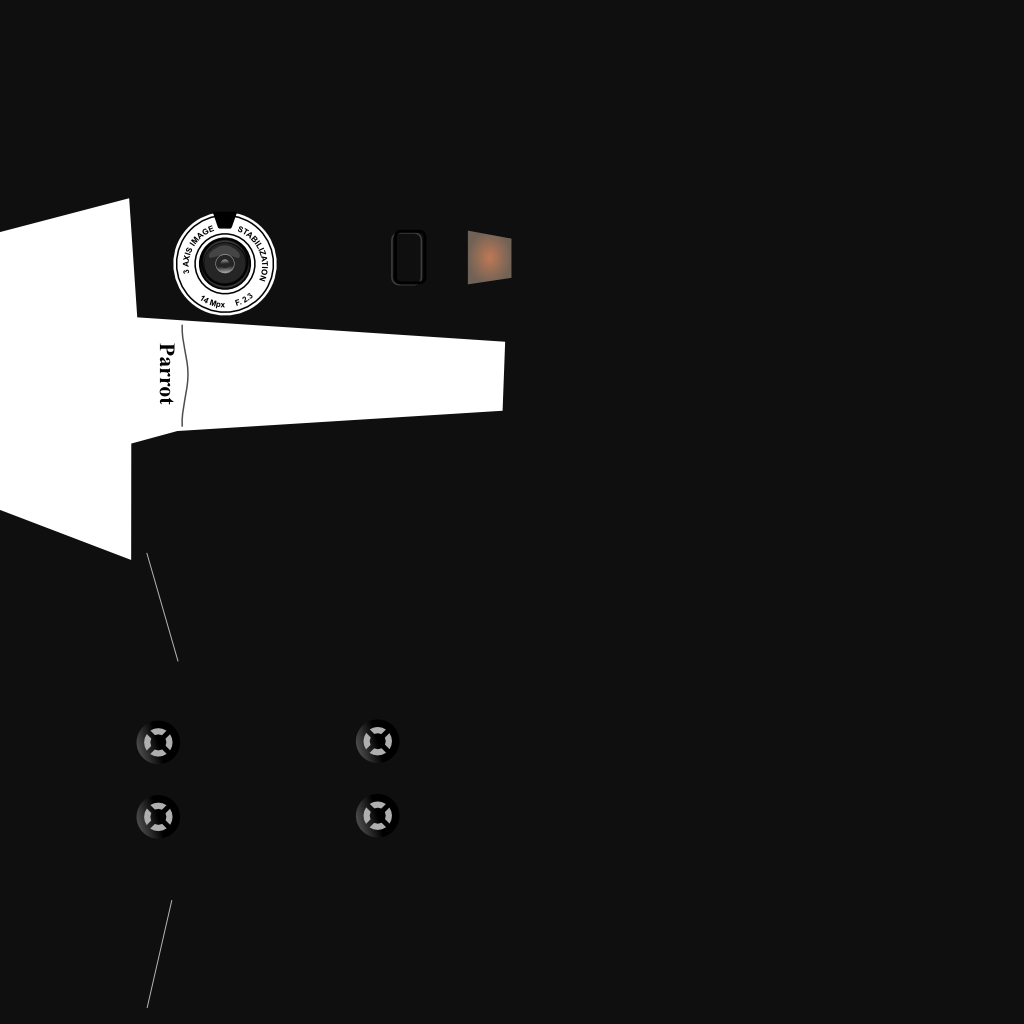
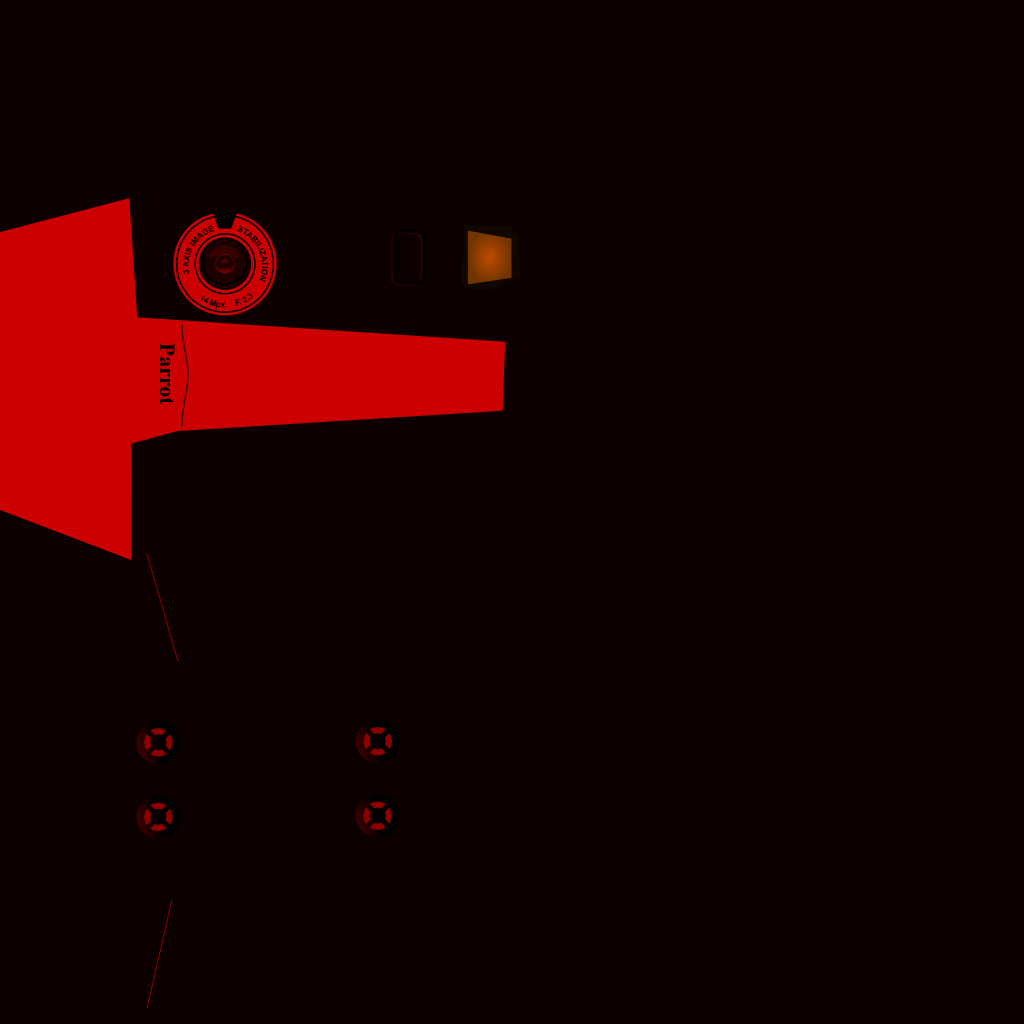
Bebop2の機体色を赤に変更。キャリブレーション画面のモデル表示も変更。Log出力を抑制

diff --git a/app/src/main/java/com/serenegiant/flightdemo/ConfigFragment.java b/app/src/main/java/com/serenegiant/flightdemo/ConfigFragment.java
@@ -42,7 +42,6 @@ public class ConfigFragment extends ControlBaseFragment {
 	// アイコン
 	public static final String KEY_ICON_TYPE = "ICON_TYPE";
 
-
 	public static ConfigFragment newInstance(final ARDiscoveryDeviceService device) {
 		final ConfigFragment fragment = new ConfigFragment();
 		fragment.setDevice(device);
@@ -262,10 +261,10 @@ public class ConfigFragment extends ControlBaseFragment {
 	}
 
 	/**
-	 * ARドローン設定画面の準備
+	 * Bebop設定画面の準備
 	 * @param root
 	 */
-	private void initConfigARdrone1(final View root) {
+	private void initConfigBebop(final View root) {
 		if (DEBUG) Log.v(TAG, "initConfigMinidrone1:");
 		// 自動カットアウトモード
 		CheckBox checkbox = (CheckBox)root.findViewById(R.id.cutout_checkbox);
@@ -962,6 +961,7 @@ public class ConfigFragment extends ControlBaseFragment {
 
 	private static PagerAdapterConfig[] PAGER_CONFIG_MINIDRONE;
 	private static PagerAdapterConfig[] PAGER_CONFIG_BEBOP;
+	private static PagerAdapterConfig[] PAGER_CONFIG_BEBOP2;
 	static {
 		// Minidrone(RollingSpider用)
 		PAGER_CONFIG_MINIDRONE = new PagerAdapterConfig[7];
@@ -1007,13 +1007,13 @@ public class ConfigFragment extends ControlBaseFragment {
 				parent.initConfigInfo(view);
 			}
 		});
-		// ここからbebop用
+// ここからbebop用
 		PAGER_CONFIG_BEBOP = new PagerAdapterConfig[8];
 		PAGER_CONFIG_BEBOP[0] = PAGER_CONFIG_MINIDRONE[0];
 		PAGER_CONFIG_BEBOP[1] = new PagerAdapterConfig(R.string.config_title_drone, R.layout.config_bebop, new AdapterItemHandler() {
 			@Override
 			public void initialize(final ConfigFragment parent, final View view) {
-				parent.initConfigARdrone1(view);
+				parent.initConfigBebop(view);
 			}
 		});
 		PAGER_CONFIG_BEBOP[2] = PAGER_CONFIG_MINIDRONE[2];
@@ -1027,6 +1027,20 @@ public class ConfigFragment extends ControlBaseFragment {
 		});
 		PAGER_CONFIG_BEBOP[6] = PAGER_CONFIG_MINIDRONE[5];
 		PAGER_CONFIG_BEBOP[7] = PAGER_CONFIG_MINIDRONE[6];
+// ここからbebop2用
+		PAGER_CONFIG_BEBOP2 = new PagerAdapterConfig[7];
+		PAGER_CONFIG_BEBOP2[0] = PAGER_CONFIG_MINIDRONE[0];
+		PAGER_CONFIG_BEBOP2[1] = PAGER_CONFIG_MINIDRONE[2];
+		PAGER_CONFIG_BEBOP2[2] = PAGER_CONFIG_MINIDRONE[3];
+		PAGER_CONFIG_BEBOP2[3] = PAGER_CONFIG_MINIDRONE[4];
+		PAGER_CONFIG_BEBOP2[4] = new PagerAdapterConfig(R.string.config_title_network, R.layout.config_network, new AdapterItemHandler() {
+			@Override
+			public void initialize(final ConfigFragment parent, final View view) {
+				parent.initConfigNetwork(view);
+			}
+		});
+		PAGER_CONFIG_BEBOP2[5] = PAGER_CONFIG_MINIDRONE[5];
+		PAGER_CONFIG_BEBOP2[6] = PAGER_CONFIG_MINIDRONE[6];
 	};
 
 	/**
@@ -1043,7 +1057,7 @@ public class ConfigFragment extends ControlBaseFragment {
 				mConfigs = PAGER_CONFIG_BEBOP;
 				break;
 			case ARDISCOVERY_PRODUCT_BEBOP_2:	// Bebop2
-				mConfigs = PAGER_CONFIG_BEBOP;	// とりあえず今は同じ
+				mConfigs = PAGER_CONFIG_BEBOP2;
 				break;
 			case ARDISCOVERY_PRODUCT_MINIDRONE:	// RollingSpider
 			case ARDISCOVERY_PRODUCT_MINIDRONE_EVO_LIGHT:

diff --git a/app/src/main/java/com/serenegiant/flightdemo/PilotFragment.java b/app/src/main/java/com/serenegiant/flightdemo/PilotFragment.java
@@ -43,6 +43,7 @@ import com.serenegiant.arflight.ScriptFlight;
 import com.serenegiant.arflight.TouchFlight;
 import com.serenegiant.arflight.VideoStream;
 import com.serenegiant.dialog.SelectFileDialogFragment;
+import com.serenegiant.gl.IVideoScreen;
 import com.serenegiant.math.Vector;
 import com.serenegiant.utils.FileUtils;
 import com.serenegiant.widget.SideMenuListView;
@@ -800,14 +801,14 @@ public class PilotFragment extends ControlFragment implements SelectFileDialogFr
 					if (mVideoStream == null) return;
 					final IScreen screen = mModelView.getCurrentScreen();
 					if (DEBUG) Log.v(TAG, "startVideoStreaming:screen=" + screen);
-					if (screen instanceof AttitudeScreenBebop) {
+					if (screen instanceof IVideoScreen) {
 						try {
-							final SurfaceTexture surface = ((AttitudeScreenBebop) screen).getVideoTexture();
+							final SurfaceTexture surface = ((IVideoScreen) screen).getVideoTexture();
 							if ((surface != null) && (mSurfaceId == 0)) {
 								final Surface _surface = new Surface(surface);
 								mSurfaceId = _surface.hashCode();
 								mVideoStream.addSurface(mSurfaceId, _surface);
-								((AttitudeScreenBebop) screen).setEnableVideo(true);
+								((IVideoScreen) screen).setEnableVideo(true);
 							}
 						} catch (final Exception e) {
 							Log.w(TAG, e);
@@ -836,8 +837,8 @@ public class PilotFragment extends ControlFragment implements SelectFileDialogFr
 		if (DEBUG) Log.v(TAG, "stopVideoStreaming:");
 		super.stopVideoStreaming();
 		final IScreen screen = mModelView.getCurrentScreen();
-		if (screen instanceof AttitudeScreenBebop) {
-			((AttitudeScreenBebop) screen).setEnableVideo(false);
+		if (screen instanceof IVideoScreen) {
+			((IVideoScreen) screen).setEnableVideo(false);
 		}
 /*		runOnUiThread(new Runnable() {
 			@Override

diff --git a/app/src/main/java/com/serenegiant/flightdemo/CalibrationFragment.java b/app/src/main/java/com/serenegiant/flightdemo/CalibrationFragment.java
@@ -1,7 +1,5 @@
 package com.serenegiant.flightdemo;
 
-import android.app.Activity;
-import android.content.SharedPreferences;
 import android.os.Bundle;
 import android.util.Log;
 import android.view.LayoutInflater;
@@ -9,7 +7,9 @@ import android.view.View;
 import android.view.ViewGroup;
 import android.widget.TextView;
 
+import com.parrot.arsdk.ardiscovery.ARDISCOVERY_PRODUCT_ENUM;
 import com.parrot.arsdk.ardiscovery.ARDiscoveryDeviceService;
+import com.parrot.arsdk.ardiscovery.ARDiscoveryService;
 import com.serenegiant.gl.AttitudeScreenBase;
 import com.serenegiant.gl.IModelView;
 
@@ -56,10 +56,14 @@ public class CalibrationFragment extends ControlBaseFragment {
 	@Override
 	public View onCreateView(final LayoutInflater inflater, final ViewGroup container, final Bundle savedInstanceState) {
 		if (DEBUG) Log.v(TAG, "onCreateView:");
+		final ARDISCOVERY_PRODUCT_ENUM product = getProduct();
 		final LayoutInflater local_inflater = getThemedLayoutInflater(inflater);
 		final View rootView = local_inflater.inflate(R.layout.fragment_calibration, container, false);
 		mModelView = (IModelView)rootView.findViewById(R.id.drone_view);
-		mModelView.setModel(IModelView.MODEL_BEBOP, AttitudeScreenBase.CTRL_CALIBRATION);
+		mModelView.setModel(
+			product == ARDISCOVERY_PRODUCT_ENUM.ARDISCOVERY_PRODUCT_BEBOP_2
+				? IModelView.MODEL_BEBOP2 :	IModelView.MODEL_BEBOP,
+			AttitudeScreenBase.CTRL_CALIBRATION);
 		mMessageTextView = (TextView)rootView.findViewById(R.id.cal_msg_textview);
 		mMessageTextView.setText(R.string.calibration_title);
 

diff --git a/common/src/main/java/com/serenegiant/gl/AttitudeScreenBebop2.java b/common/src/main/java/com/serenegiant/gl/AttitudeScreenBebop2.java
@@ -1,11 +1,13 @@
 package com.serenegiant.gl;
 
 import android.graphics.SurfaceTexture;
+import android.util.Log;
 
 import javax.microedition.khronos.opengles.GL10;
 
-public class AttitudeScreenBebop2 extends AttitudeScreenBase {
-	private static final String TAG = "AttitudeScreenBebop";
+public class AttitudeScreenBebop2 extends AttitudeScreenBase implements IVideoScreen {
+	private static final boolean DEBUG = false;	// FIXME 実働時はfalseにすること
+	private static final String TAG = "AttitudeScreenBebop2";
 
 	private DynamicTexture mVideoFrameTexture;
 
@@ -103,11 +105,16 @@ public class AttitudeScreenBebop2 extends AttitudeScreenBase {
 	}
 
 	private volatile boolean mVideoEnabled;
+
+	@Override
 	public void setEnableVideo(final boolean enable) {
+		if (DEBUG) Log.v(TAG, "setEnableVideo:" + enable);
 		mVideoEnabled = enable;
 	}
 
+	@Override
 	public SurfaceTexture getVideoTexture() {
+		if (DEBUG) Log.v(TAG, "getVideoTexture:" + mVideoFrameTexture);
 		return mVideoFrameTexture != null ? mVideoFrameTexture.getSurfaceTexture() : null;
 	}
 

diff --git a/arflight/src/main/java/com/serenegiant/arflight/FTPController.java b/arflight/src/main/java/com/serenegiant/arflight/FTPController.java
@@ -34,7 +34,7 @@ import java.util.ArrayList;
 import java.util.List;
 
 public abstract class FTPController {
-	private static final boolean DEBUG = true;	// FIXME 実働時はfalseにすること
+	private static final boolean DEBUG = false;	// FIXME 実働時はfalseにすること
 	private static final String TAG = "FTPController:";
 
 	public interface FTPControllerCallback {
@@ -86,9 +86,9 @@ public abstract class FTPController {
 	private FTPControllerCallback mCallback;
 
 	public static FTPController newInstance(final Context context, final IFlightController controller) {
-		if (controller instanceof FlightControllerBebop) {
+		if (controller instanceof IWiFiController) {
 			return new FTPControllerWiFi(context, controller);
-		} else if (controller instanceof FlightControllerMiniDrone) {
+		} else if (controller instanceof IBLEController) {
 			return new FTPControllerBLE(context, controller);
 		}
 		controller.sendVideoRecording(false);

diff --git a/common/src/main/java/com/serenegiant/gl/AttitudeScreenBebop.java b/common/src/main/java/com/serenegiant/gl/AttitudeScreenBebop.java
@@ -4,7 +4,7 @@ import android.graphics.SurfaceTexture;
 
 import javax.microedition.khronos.opengles.GL10;
 
-public class AttitudeScreenBebop extends AttitudeScreenBase {
+public class AttitudeScreenBebop extends AttitudeScreenBase implements IVideoScreen {
 	private static final String TAG = "AttitudeScreenBebop";
 
 	private DynamicTexture mVideoFrameTexture;
@@ -103,10 +103,13 @@ public class AttitudeScreenBebop extends AttitudeScreenBase {
 	}
 
 	private volatile boolean mVideoEnabled;
+
+	@Override
 	public void setEnableVideo(final boolean enable) {
 		mVideoEnabled = enable;
 	}
 
+	@Override
 	public SurfaceTexture getVideoTexture() {
 		return mVideoFrameTexture != null ? mVideoFrameTexture.getSurfaceTexture() : null;
 	}

diff --git a/app/src/main/java/com/serenegiant/flightdemo/MainActivity.java b/app/src/main/java/com/serenegiant/flightdemo/MainActivity.java
@@ -29,7 +29,7 @@ import com.serenegiant.widget.SideMenuFrameLayout;
 public class MainActivity extends Activity /*AppCompatActivity*/ {
 	// ActionBarActivityを継承するとPilotFragmentから戻る際にクラッシュする
 	// Fragmentが切り替わらずに処理中にもかかわらずActivityが破棄されてしまう
-	private static final boolean DEBUG = true;    // FIXME 実働時はfalseにすること
+	private static final boolean DEBUG = false;    // FIXME 実働時はfalseにすること
 	private static String TAG = MainActivity.class.getSimpleName();
 
 	private static boolean isLoaded = false;

diff --git a/arflight/src/main/java/com/serenegiant/arflight/TouchFlight.java b/arflight/src/main/java/com/serenegiant/arflight/TouchFlight.java
@@ -5,8 +5,8 @@ import android.os.HandlerThread;
 import android.util.Log;
 
 public class TouchFlight implements IAutoFlight {
-	private static final boolean DEBUG = true;				// FIXME 実働時はfalseにすること
-	private static final String TAG = "TouchFlight";
+	private static final boolean DEBUG = false;				// FIXME 実働時はfalseにすること
+	private static final String TAG = TouchFlight.class.getSimpleName();
 
 	private static final int VERTIAL_WIDTH = 500;		// 仮想的な操作画面の幅
 	private static final long CMD_DELAY_TIME_MS = 5;	// コマンド遅延時間=5ミリ秒

diff --git a/arflight/src/main/java/com/serenegiant/arflight/SkyController.java b/arflight/src/main/java/com/serenegiant/arflight/SkyController.java
@@ -13,7 +13,9 @@ import java.sql.Date;
 /**
  * Created by saki on 15/10/31.
  */
-public class SkyController extends FlightController implements IVideoStreamController {
+public class SkyController extends FlightController implements IVideoStreamController, IWiFiController {
+	private static final boolean DEBUG = false;				// FIXME 実働時はfalseにすること
+	private static final String TAG = SkyController.class.getSimpleName();
 
 	public SkyController(final Context context, final ARDiscoveryDeviceService service) {
 		super(context, service, new ARNetworkConfigSkyController());

diff --git a/arflight/src/main/java/com/serenegiant/arflight/FlightControllerBebop.java b/arflight/src/main/java/com/serenegiant/arflight/FlightControllerBebop.java
@@ -92,7 +92,7 @@ import com.serenegiant.arflight.attribute.AttributeMotor;
 import com.serenegiant.arflight.attribute.AttributePosition;
 import com.serenegiant.arflight.configs.ARNetworkConfigARDrone3;
 
-public class FlightControllerBebop extends FlightController implements IVideoStreamController {
+public class FlightControllerBebop extends FlightController implements IVideoStreamController, IWiFiController {
 	private static final boolean DEBUG = false; // FIXME 実働時はfalseにすること
 	private static String TAG = "FlightControllerBebop";
 

diff --git a/app/src/main/java/com/serenegiant/flightdemo/ScriptFragment.java b/app/src/main/java/com/serenegiant/flightdemo/ScriptFragment.java
@@ -29,7 +29,7 @@ import java.util.ArrayList;
 import java.util.List;
 
 public class ScriptFragment extends BaseFragment implements SelectFileDialogFragment.OnFileSelectListener, OnDialogResultIntListener {
-    private static final boolean DEBUG = true;  // FIXME 実働時はfalseにすること
+    private static final boolean DEBUG = false;  // FIXME 実働時はfalseにすること
     private static final String TAG = ScriptFragment.class.getSimpleName();
 
     public static ScriptFragment newInstance() {

diff --git a/arflight/src/main/java/com/serenegiant/arflight/FlightControllerMiniDrone.java b/arflight/src/main/java/com/serenegiant/arflight/FlightControllerMiniDrone.java
@@ -36,7 +36,7 @@ import com.serenegiant.arflight.attribute.AttributeIMU;
 import com.serenegiant.arflight.attribute.AttributeMotor;
 import com.serenegiant.arflight.configs.ARNetworkConfigMiniDrone;
 
-public class FlightControllerMiniDrone extends FlightController {
+public class FlightControllerMiniDrone extends FlightController implements IBLEController {
 	private static final boolean DEBUG = false; // FIXME 実働時はfalseにすること
 	private static String TAG = "FlightControllerMiniDrone";
 
